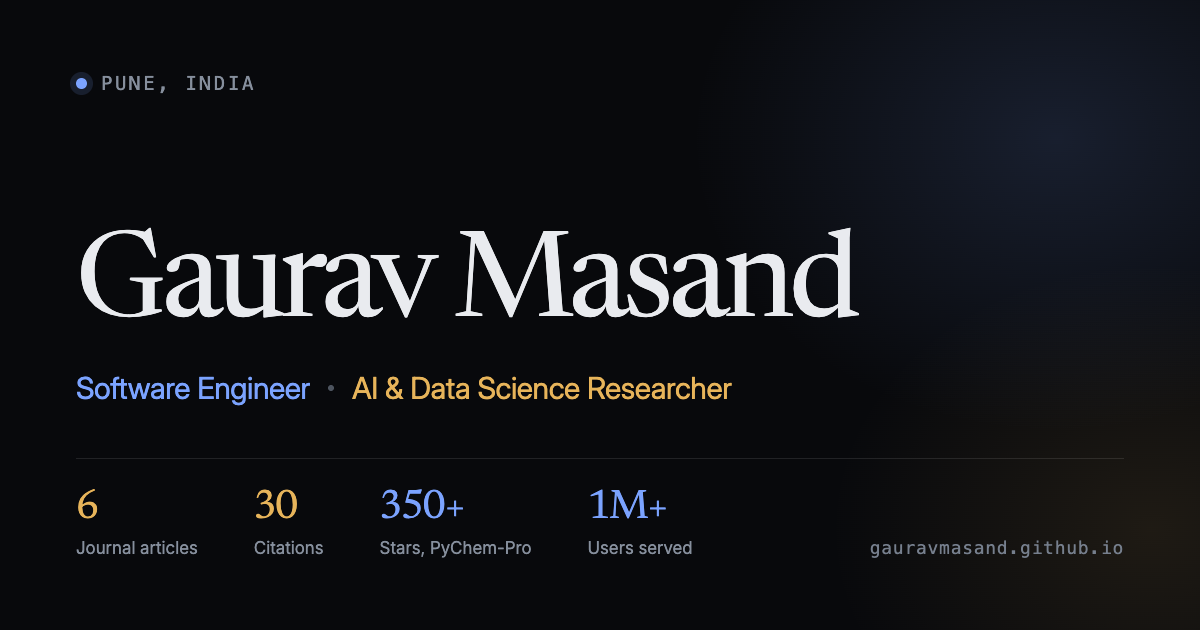
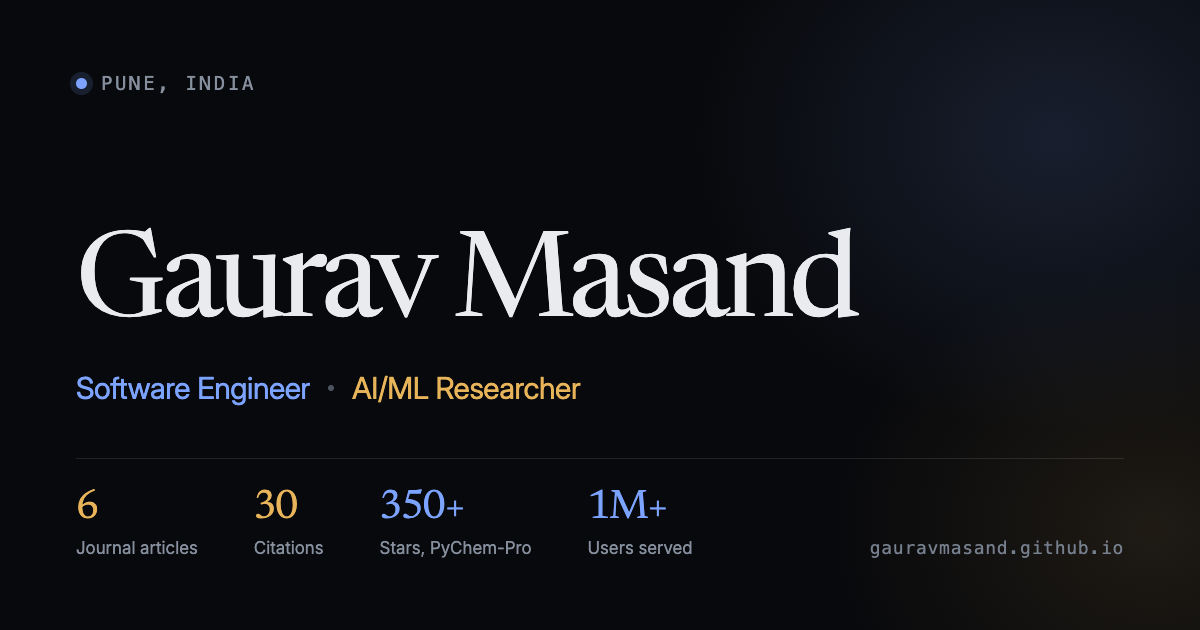
Unclip the hero ascender and retitle the research role
The mask that drives the hero's line reveal clips at its padding box, and a
0.92 display line-height puts Newsreader's ascenders above the line box — so
the cap of the "G" in "Gaurav" was being shaved off. Opened the mask upward by
0.18em and pulled it back with a matching negative margin: the glyph clears
and the layout position is unchanged. Only the top grows, so the line still
hides completely at translate 105% (measured: 4.4px of clearance).

Renamed "AI & Data Science Researcher" to "AI/ML Researcher" — shorter, and
closer to what the six publications actually are (interpretable ML, feature
selection, SHAP attribution) than the degree title was. The hero was
hardcoding both role strings; it now reads them from the content model, so
meta.role and meta.secondRole are the single source for the heading, the
document title, the OG description and the image alt text. og.png regenerated.

Changed region(s): [[0.3083, 0.573, 0.6167, 0.6333]]

diff --git a/index.html b/index.html
@@ -3,8 +3,8 @@
 <head>
 <meta charset="utf-8">
 <meta name="viewport" content="width=device-width, initial-scale=1, viewport-fit=cover">
-<title>Gaurav Masand — Software Engineer &amp; AI/Data Science Researcher</title>
-<meta name="description" content="Gaurav Masand builds production backend systems and publishes computational research. Six peer-reviewed journal articles on interpretable machine learning, architect of PyChem-Pro, and Spring Boot / BigQuery microservices serving 1M+ users.">
+<title>Gaurav Masand — Software Engineer &amp; AI/ML Researcher</title>
+<meta name="description" content="Gaurav Masand builds production backend systems and publishes machine-learning research. Six peer-reviewed journal articles on interpretable machine learning, architect of PyChem-Pro, and Spring Boot / BigQuery microservices serving 1M+ users.">
 <meta name="author" content="Gaurav Masand">
 <meta name="keywords" content="Gaurav Masand, software engineer, AI researcher, machine learning, explainable AI, QSAR, PyChem-Pro, backend engineering, Spring Boot, computational research, interpretable machine learning, Pune">
 <meta name="theme-color" content="#08090c">
@@ -13,17 +13,17 @@
 <meta property="og:type" content="website">
 <meta property="og:url" content="https://gauravmasand.github.io/">
 <meta property="og:site_name" content="Gaurav Masand">
-<meta property="og:title" content="Gaurav Masand — Software Engineer &amp; AI/Data Science Researcher">
-<meta property="og:description" content="Software engineer and AI/data-science researcher. Six peer-reviewed publications in interpretable ML, architect of the open-source PyChem-Pro molecular platform, backend microservices at 1M+ user scale.">
+<meta property="og:title" content="Gaurav Masand — Software Engineer &amp; AI/ML Researcher">
+<meta property="og:description" content="Software engineer and AI/ML researcher. Six peer-reviewed publications in interpretable ML, architect of the open-source PyChem-Pro molecular platform, backend microservices at 1M+ user scale.">
 <meta property="og:image" content="https://gauravmasand.github.io/og.png">
 <meta property="og:image:width" content="1200">
 <meta property="og:image:height" content="630">
-<meta property="og:image:alt" content="Gaurav Masand — Software Engineer and AI/Data Science Researcher">
+<meta property="og:image:alt" content="Gaurav Masand — Software Engineer and AI/ML Researcher">
 <meta property="og:locale" content="en_US">
 
 <meta name="twitter:card" content="summary_large_image">
-<meta name="twitter:title" content="Gaurav Masand — Software Engineer &amp; AI/Data Science Researcher">
-<meta name="twitter:description" content="Software engineer and AI/data-science researcher. Six peer-reviewed publications in interpretable ML, architect of the open-source PyChem-Pro molecular platform, backend microservices at 1M+ user scale.">
+<meta name="twitter:title" content="Gaurav Masand — Software Engineer &amp; AI/ML Researcher">
+<meta name="twitter:description" content="Software engineer and AI/ML researcher. Six peer-reviewed publications in interpretable ML, architect of the open-source PyChem-Pro molecular platform, backend microservices at 1M+ user scale.">
 <meta name="twitter:image" content="https://gauravmasand.github.io/og.png">
 
 <link rel="icon" href="favicon.svg" type="image/svg+xml">
@@ -1063,7 +1063,12 @@ transition-delay: var(--d, 0ms);
 }
 .js .reveal.is-in { opacity: 1; translate: 0 0; }
 .js .lines { display: block; }
-.js .line-mask { display: block; overflow: hidden; }
+.js .line-mask {
+display: block;
+overflow: hidden;
+padding-top: 0.18em;
+margin-top: -0.18em;
+}
 .js .line-inner {
 display: block;
 translate: 0 105%;
@@ -1110,7 +1115,7 @@ html:not(.js) .nav-links { display: flex; flex-wrap: wrap; gap: 0.1rem; }
 html:not(.js) .hero { padding-top: 2rem; }
 }</style>
 <script type="module" src="assets/js/main.js"></script>
-<script type="application/ld+json">{"@context":"https://schema.org","@type":"Person","name":"Gaurav Masand","url":"https://gauravmasand.github.io","email":"mailto:gauravsmasand@gmail.com","jobTitle":["Software Engineer","AI & Data Science Researcher"],"description":"Software engineer and AI/data-science researcher. Six peer-reviewed publications in interpretable ML, architect of the open-source PyChem-Pro molecular platform, backend microservices at 1M+ user scale.","address":{"@type":"PostalAddress","addressLocality":"Pune","addressRegion":"Maharashtra","addressCountry":"IN"},"alumniOf":[{"@type":"CollegeOrUniversity","name":"Dr. D. Y. Patil Institute of Technology (SPPU)"},{"@type":"CollegeOrUniversity","name":"Dr. Punjabrao Deshmukh Polytechnic (MSBTE)"}],"knowsAbout":["Interpretable machine learning","Explainable AI","Backend engineering","Distributed systems","Numerical optimization","Cheminformatics","QSAR modelling"],"sameAs":["https://github.com/gauravmasand","https://www.linkedin.com/in/gaurav-masand/","https://scholar.google.com/citations?user=Hjdvr88AAAAJ&hl=en"]}</script>
+<script type="application/ld+json">{"@context":"https://schema.org","@type":"Person","name":"Gaurav Masand","url":"https://gauravmasand.github.io","email":"mailto:gauravsmasand@gmail.com","jobTitle":["Software Engineer","AI/ML Researcher"],"description":"Software engineer and AI/ML researcher. Six peer-reviewed publications in interpretable ML, architect of the open-source PyChem-Pro molecular platform, backend microservices at 1M+ user scale.","address":{"@type":"PostalAddress","addressLocality":"Pune","addressRegion":"Maharashtra","addressCountry":"IN"},"alumniOf":[{"@type":"CollegeOrUniversity","name":"Dr. D. Y. Patil Institute of Technology (SPPU)"},{"@type":"CollegeOrUniversity","name":"Dr. Punjabrao Deshmukh Polytechnic (MSBTE)"}],"knowsAbout":["Interpretable machine learning","Explainable AI","Backend engineering","Distributed systems","Numerical optimization","Cheminformatics","QSAR modelling"],"sameAs":["https://github.com/gauravmasand","https://www.linkedin.com/in/gaurav-masand/","https://scholar.google.com/citations?user=Hjdvr88AAAAJ&hl=en"]}</script>
 <script type="application/ld+json">{"@context":"https://schema.org","@type":"ScholarlyArticle","headline":"Machine learning modeling of acute inhalation toxicity using an RFA-RFR framework, supported by explainable AI and SALI-based activity cliff analysis","name":"Machine learning modeling of acute inhalation toxicity using an RFA-RFR framework, supported by explainable AI and SALI-based activity cliff analysis","datePublished":"2026","isPartOf":{"@type":"Periodical","name":"Journal of Pharmacological and Toxicological Methods"},"author":[{"@type":"Person","name":"V. H. Masand"},{"@type":"Person","name":"M. M. Rathore"},{"@type":"Person","name":"J. R. Bansod"},{"@type":"Person","name":"M. K. Patil"},{"@type":"Person","name":"G. S. Masand"},{"@type":"Person","name":"A. Samad"}],"identifier":"https://doi.org/10.1016/j.vascn.2026.108426","url":"https://doi.org/10.1016/j.vascn.2026.108426"}</script>
 <script type="application/ld+json">{"@context":"https://schema.org","@type":"ScholarlyArticle","headline":"PyDescriptorC*: a descriptor calculation tool for decoding chirality cliffs and revealing hidden patterns in drug discovery","name":"PyDescriptorC*: a descriptor calculation tool for decoding chirality cliffs and revealing hidden patterns in drug discovery","datePublished":"2025","isPartOf":{"@type":"Periodical","name":"RHAZES: Green and Applied Chemistry"},"author":[{"@type":"Person","name":"V. Masand"},{"@type":"Person","name":"G. Masand"},{"@type":"Person","name":"S. A. Al-Hussain"},{"@type":"Person","name":"R. Jawarkar"},{"@type":"Person","name":"V. Rastija"},{"@type":"Person","name":"M. E. A. Zaki"}],"identifier":"https://doi.org/10.48419/IMIST.PRSM/rhazes-v21.55913","url":"https://doi.org/10.48419/IMIST.PRSM/rhazes-v21.55913"}</script>
 <script type="application/ld+json">{"@context":"https://schema.org","@type":"ScholarlyArticle","headline":"e-QSAR (Explainable AI-QSAR), molecular docking, and ADMET analysis of structurally diverse GSK3-beta modulators","name":"e-QSAR (Explainable AI-QSAR), molecular docking, and ADMET analysis of structurally diverse GSK3-beta modulators","datePublished":"2025","isPartOf":{"@type":"Periodical","name":"Computational Biology and Chemistry"},"author":[{"@type":"Person","name":"V. H. Masand"},{"@type":"Person","name":"S. Al-Hussain"},{"@type":"Person","name":"G. S. Masand"},{"@type":"Person","name":"A. Samad"},{"@type":"Person","name":"R. Gawali"},{"@type":"Person","name":"S. Jadhav"},{"@type":"Person","name":"M. E. A. Zaki"}],"identifier":"https://doi.org/10.1016/j.compbiolchem.2024.108324","url":"https://doi.org/10.1016/j.compbiolchem.2024.108324"}</script>
@@ -1162,7 +1167,7 @@ html:not(.js) .hero { padding-top: 2rem; }
     <p class="hero-roles" data-reveal style="--d:260ms">
       <span class="r-eng">Software Engineer</span>
       <span class="sep" aria-hidden="true"></span>
-      <span class="r-res">AI &amp; Data Science Researcher</span>
+      <span class="r-res">AI/ML Researcher</span>
     </p>
 
     <p class="hero-lede" data-reveal style="--d:340ms">I build systems that have to be both fast and explainable — production backends measured in P95 latency, and research code measured in whether another scientist can reproduce it.</p>

diff --git a/src/styles/08-motion.css b/src/styles/08-motion.css
@@ -11,9 +11,19 @@
 }
 .js .reveal.is-in { opacity: 1; translate: 0 0; }
 
-/* Line-by-line display reveal for the hero and section headings */
+/* Line-by-line display reveal for the hero and section headings.
+   The mask clips at its padding box, and a tight display line-height (0.92)
+   puts the serif ascenders above the line box — so the cap of a "G" was being
+   shaved off. Open the box upward and pull it back with a matching negative
+   margin: the glyph clears, the layout position is unchanged, and because only
+   the top grows the line still hides completely at translate 105%. */
 .js .lines { display: block; }
-.js .line-mask { display: block; overflow: hidden; }
+.js .line-mask {
+  display: block;
+  overflow: hidden;
+  padding-top: 0.18em;
+  margin-top: -0.18em;
+}
 .js .line-inner {
   display: block;
   translate: 0 105%;

diff --git a/scripts/og-card.html b/scripts/og-card.html
@@ -26,7 +26,7 @@
 <div class="glow"></div>
 <div class="top"><span class="dot"></span>Pune, India</div>
 <h1>Gaurav Masand</h1>
-<div class="roles"><span class="e">Software Engineer</span><span class="s"></span><span class="r">AI &amp; Data Science Researcher</span></div>
+<div class="roles"><span class="e">Software Engineer</span><span class="s"></span><span class="r">AI/ML Researcher</span></div>
 <div class="foot">
   <div class="f"><b>6</b><span>Journal articles</span></div>
   <div class="f"><b>30</b><span>Citations</span></div>

diff --git a/404.html b/404.html
@@ -1036,7 +1036,12 @@ transition-delay: var(--d, 0ms);
 }
 .js .reveal.is-in { opacity: 1; translate: 0 0; }
 .js .lines { display: block; }
-.js .line-mask { display: block; overflow: hidden; }
+.js .line-mask {
+display: block;
+overflow: hidden;
+padding-top: 0.18em;
+margin-top: -0.18em;
+}
 .js .line-inner {
 display: block;
 translate: 0 105%;

diff --git a/README.md b/README.md
@@ -1,6 +1,6 @@
 # gauravmasand.github.io
 
-Personal site of **Gaurav Masand** — software engineer and AI/data-science researcher.
+Personal site of **Gaurav Masand** — software engineer and AI/ML researcher.
 Live at <https://gauravmasand.github.io>.
 
 A static, single-page site: hand-written HTML, CSS and JavaScript with no framework
